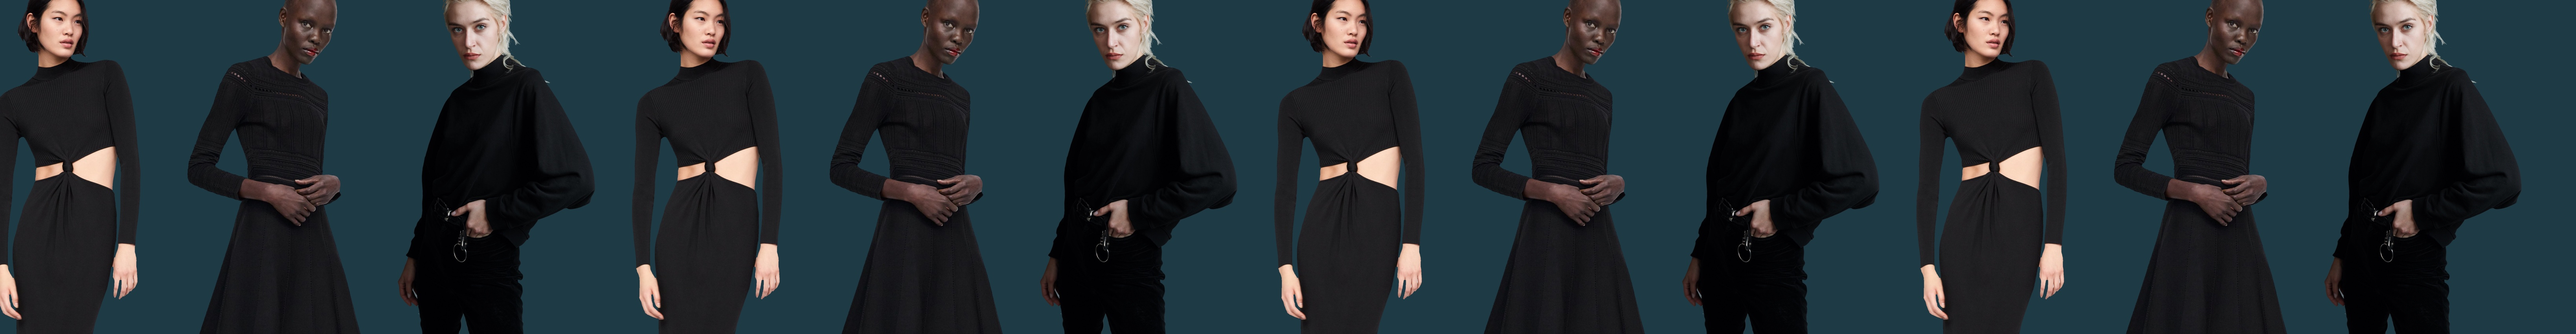
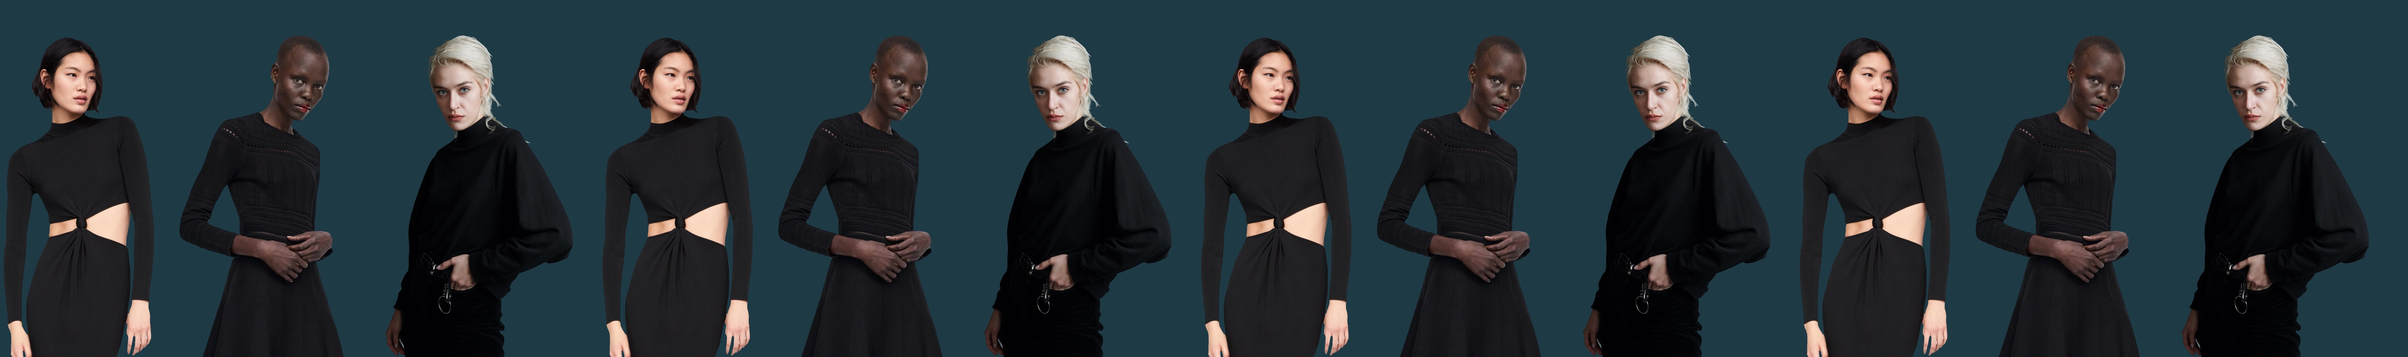
8
8

diff --git a/lawsofmotion/index.hyperesources/index_hype_generated_script.js b/lawsofmotion/index.hyperesources/index_hype_generated_script.js
@@ -3,5 +3,5 @@
 (function(){(function k(){function l(a,b,d){var c=!1;null==window[a]&&(null==window[b]?(window[b]=[],window[b].push(k),a=document.getElementsByTagName("head")[0],b=document.createElement("script"),c=h,false==!0&&(c=""),b.type="text/javascript",b.src=c+"/"+d,a.appendChild(b)):window[b].push(k),c=!0);return c}var h="index.hyperesources",c="index",e="index_hype_container";if(false==!1)try{for(var f=document.getElementsByTagName("script"),
 a=0;a<f.length;a++){var b=f[a].src,d=null!=b?b.indexOf("/index_hype_generated_script.js"):-1;if(-1!=d){h=b.substr(0,d);break}}}catch(n){}if(false==!1&&(a=navigator.userAgent.match(/MSIE (\d+\.\d+)/),a=parseFloat(a&&a[1])||null,a=l("HYPE_596","HYPE_dtl_596",!0==(null!=a&&10>a||false==!0)?"HYPE-596.full.min.js":"HYPE-596.thin.min.js"),false==!0&&(a=a||l("HYPE_w_596","HYPE_wdtl_596","HYPE-596.waypoints.min.js")),a))return;f=window.HYPE.documents;
 if(null!=f[c]){b=1;a=c;do c=""+a+"-"+b++;while(null!=f[c]);d=document.getElementsByTagName("div");b=!1;for(a=0;a<d.length;a++)if(d[a].id==e&&null==d[a].getAttribute("HYP_dn")){var b=1,g=e;do e=""+g+"-"+b++;while(null!=document.getElementById(e));d[a].id=e;b=!0;break}if(!1==b)return}b=[];b=[];d={};g={};for(a=0;a<b.length;a++)try{g[b[a].identifier]=b[a].name,d[b[a].name]=eval("(function(){return "+b[a].source+"})();")}catch(m){window.console&&window.console.log(m),d[b[a].name]=
-function(){}}a=new HYPE_596(c,e,{"7":{p:1,n:"Homepage_Text_2x.png",g:"11",o:true,t:"@2x"},"3":{p:1,n:"Models_2x.jpg",g:"16",o:true,t:"@2x"},"-2":{n:"blank.gif"},"4":{p:1,n:"Models_2.jpg",g:"30",o:true,t:"@1x"},"0":{p:1,n:"LawsOfMotion_FullLogo_2x.png",g:"5",t:"@2x"},"5":{p:1,n:"Models_2_2x.jpg",g:"30",o:true,t:"@2x"},"1":{p:1,n:"LawsOfMotion_Mark_2x.png",g:"8",t:"@2x"},"6":{p:1,n:"Homepage_Text.png",g:"11",o:true,t:"@1x"},"2":{p:1,n:"Models.jpg",g:"16",o:true,t:"@1x"},"-1":{n:"PIE.htc"}},h,[],d,[{n:"Untitled Scene",o:"1",X:[0]}],[{o:"3",p:"600px",cA:false,Y:1440,Z:909,L:[],c:"#FFFFFF",bY:1,d:1440,U:{},T:{"13":{f:30,z:105,i:"13",n:"Untitled Timeline",j:{"0":[[963,56,963,56,300,57,300,57]],"1":[[300,57,300,57,-326,57,-326,57]]},a:[{f:"c",y:0,z:2.03,i:"e",e:1,s:1,o:"40"},{y:0,i:"c",s:1440,z:0,o:"38",f:"c"},{o:"43",y:0,z:2,i:"b",e:2,a:"0",f:"c",s:1},{o:"43",y:0,z:2,i:"a",e:-16,a:"0",f:"c",s:647},{f:"b",y:0,z:105,i:"a",e:-5112,s:0,o:"45"},{o:"43",y:2,z:2,i:"b",e:2,a:"1",f:"c",s:2},{o:"43",y:2,z:2,i:"a",e:-642,a:"1",f:"c",s:-16},{f:"c",y:2.03,z:0.03,i:"e",e:0,s:1,o:"40"},{y:2.03,i:"a",s:0,z:0,o:"38",f:"c"},{y:2.06,i:"e",s:0,z:0,o:"40",f:"c"},{f:"c",y:4,z:1,i:"c",e:0,s:1440,o:"37"},{y:4,i:"b",s:2,z:0,o:"43",f:"c"},{y:4,i:"a",s:-642,z:0,o:"43",f:"c"},{y:5,i:"c",s:0,z:0,o:"37",f:"c"},{y:105,i:"a",s:-5112,z:0,o:"45",f:"c"}],b:[]},kTimelineDefaultIdentifier:{i:"kTimelineDefaultIdentifier",n:"Main Timeline",z:7,b:[],a:[{f:"c",y:0,z:4,i:"c",e:0,s:0,o:"38"},{f:"c",p:2,y:0,z:0,i:"ActionHandler",s:{a:[{b:"13",p:3,z:false,symbolOid:"2"}]},o:"kTimelineDefaultIdentifier"},{f:"c",y:4,z:3,i:"c",e:-1440,s:0,o:"38"},{y:7,i:"c",s:-1440,z:0,o:"38",f:"c"}],f:30}},bZ:180,O:["45","47","38","44","40","39","37","46","42","43","41"],n:"Untitled Layout","_":0,v:{"39":{c:1440,d:909,I:"None",cQ:1,e:1,J:"None",K:"None",cR:1,g:"#EDEADE",L:"None",M:0,N:0,bF:"37",A:"#D8DDE4",x:"visible",j:"absolute",k:"div",O:0,B:"#D8DDE4",C:"#D8DDE4",z:1,P:0,D:"#D8DDE4",a:0,b:0},"47":{h:"30",p:"no-repeat",x:"visible",a:-646,q:"100% 100%",b:0,j:"absolute",dB:"img",z:2,k:"div",c:6624,d:851,r:"none"},"42":{c:665,d:110,I:"None",J:"None",K:"None",L:"None",M:0,N:0,bF:"41",A:"#D8DDE4",x:"visible",j:"absolute",B:"#D8DDE4",k:"div",O:0,C:"#D8DDE4",z:3,P:0,D:"#D8DDE4",a:-37,b:-5},"37":{k:"div",x:"hidden",c:1440,d:919,z:4,a:0,j:"absolute",b:0},"45":{h:"16",p:"no-repeat",x:"visible",a:0,q:"100% 100%",b:0,j:"absolute",dB:"img",z:1,k:"div",c:6554,d:851,r:"inline",e:1},"40":{w:"",h:"5",p:"no-repeat",x:"visible",a:0,q:"100% 100%",b:0,j:"absolute",cY:"0",z:2,dB:"img",k:"div",d:909,bF:"37",c:1440,e:0,r:"inline"},"43":{b:0,bR:0,c:632,bS:1,d:110,I:"None",e:1,cQ:1,J:"None",K:"None",cR:1,g:"#FDFCF6",L:"None",M:0,aY:0,N:0,bF:"41",A:"#D8DDE4",O:0,x:"hidden",j:"absolute",k:"div",B:"#D8DDE4",C:"#D8DDE4",z:2,P:0,D:"#D8DDE4",tX:0.5,a:646.5,tY:0.5},"38":{c:0,d:909,I:"None",cY:"0",cQ:1,e:1,J:"None",K:"None",cR:1,L:"None",M:0,N:0,bF:"37",A:"#D8DDE4",x:"hidden",j:"absolute",O:0,k:"div",B:"#D8DDE4",C:"#D8DDE4",z:7,P:0,D:"#D8DDE4",a:0,b:0},"46":{h:"11",p:"no-repeat",x:"visible",a:0,q:"100% 100%",b:0,j:"absolute",dB:"img",z:3,k:"div",c:1440,d:909,r:"inline",e:1},"41":{x:"hidden",g:"",k:"div",c:635,d:110,z:3,a:399,j:"absolute",bF:"37",b:398},"44":{h:"8",p:"no-repeat",x:"visible",a:0,q:"100% 100%",b:0,j:"absolute",bF:"37",z:6,k:"div",dB:"img",d:909.68399999999997,c:1442,r:"inline"}}}],{},g,{},null,false,true,-1,true,true,false,true);f[c]=a.API;document.getElementById(e).setAttribute("HYP_dn",
+function(){}}a=new HYPE_596(c,e,{"7":{p:1,n:"Homepage_Text_2x.png",g:"11",o:true,t:"@2x"},"3":{p:1,n:"Models_2_2x.jpg",g:"30",o:true,t:"@2x"},"-2":{n:"blank.gif"},"4":{p:1,n:"Models.jpg",g:"16",o:true,t:"@1x"},"0":{p:1,n:"LawsOfMotion_FullLogo_2x.png",g:"5",t:"@2x"},"5":{p:1,n:"Models_2x.jpg",g:"16",o:true,t:"@2x"},"1":{p:1,n:"LawsOfMotion_Mark_2x.png",g:"8",t:"@2x"},"6":{p:1,n:"Homepage_Text.png",g:"11",o:true,t:"@1x"},"2":{p:1,n:"Models_2.jpg",g:"30",o:true,t:"@1x"},"-1":{n:"PIE.htc"}},h,[],d,[{n:"Untitled Scene",o:"1",X:[0]}],[{o:"3",p:"600px",cA:false,Y:1440,Z:909,L:[],c:"#FFFFFF",bY:1,d:1440,U:{},T:{"13":{f:30,z:105,i:"13",n:"Untitled Timeline",j:{"0":[[963,56,963,56,300,57,300,57]],"1":[[300,57,300,57,-326,57,-326,57]]},a:[{f:"c",y:0,z:2.03,i:"e",e:1,s:1,o:"40"},{y:0,i:"c",s:1440,z:0,o:"38",f:"c"},{o:"43",y:0,z:2,i:"b",e:2,a:"0",f:"c",s:1},{o:"43",y:0,z:2,i:"a",e:-16,a:"0",f:"c",s:647},{f:"b",y:0,z:105,i:"a",e:-4682,s:0,o:"45"},{o:"43",y:2,z:2,i:"b",e:2,a:"1",f:"c",s:2},{o:"43",y:2,z:2,i:"a",e:-642,a:"1",f:"c",s:-16},{f:"c",y:2.03,z:0.03,i:"e",e:0,s:1,o:"40"},{y:2.03,i:"a",s:0,z:0,o:"38",f:"c"},{y:2.06,i:"e",s:0,z:0,o:"40",f:"c"},{f:"c",y:4,z:1,i:"c",e:0,s:1440,o:"37"},{y:4,i:"b",s:2,z:0,o:"43",f:"c"},{y:4,i:"a",s:-642,z:0,o:"43",f:"c"},{y:5,i:"c",s:0,z:0,o:"37",f:"c"},{y:105,i:"a",s:-4682,z:0,o:"45",f:"c"}],b:[]},kTimelineDefaultIdentifier:{i:"kTimelineDefaultIdentifier",n:"Main Timeline",z:7,b:[],a:[{f:"c",y:0,z:4,i:"c",e:0,s:0,o:"38"},{f:"c",p:2,y:0,z:0,i:"ActionHandler",s:{a:[{b:"13",p:3,z:false,symbolOid:"2"}]},o:"kTimelineDefaultIdentifier"},{f:"c",y:4,z:3,i:"c",e:-1440,s:0,o:"38"},{y:7,i:"c",s:-1440,z:0,o:"38",f:"c"}],f:30}},bZ:180,O:["45","47","38","44","40","39","37","46","42","43","41"],n:"Untitled Layout","_":0,v:{"39":{c:1440,d:909,I:"None",cQ:1,e:1,J:"None",K:"None",cR:1,g:"#EDEADE",L:"None",M:0,N:0,bF:"37",A:"#D8DDE4",x:"visible",j:"absolute",k:"div",O:0,B:"#D8DDE4",C:"#D8DDE4",z:1,P:0,D:"#D8DDE4",a:0,b:0},"47":{h:"30",p:"no-repeat",x:"visible",a:-646,q:"100% 100%",b:0,j:"absolute",dB:"img",z:2,k:"div",c:6624,d:851,r:"none"},"42":{c:665,d:110,I:"None",J:"None",K:"None",L:"None",M:0,N:0,bF:"41",A:"#D8DDE4",x:"visible",j:"absolute",B:"#D8DDE4",k:"div",O:0,C:"#D8DDE4",z:3,P:0,D:"#D8DDE4",a:-37,b:-5},"37":{k:"div",x:"hidden",c:1440,d:919,z:4,a:0,j:"absolute",b:0},"45":{h:"16",p:"no-repeat",x:"visible",a:0,q:"100% 100%",b:0,j:"absolute",dB:"img",z:1,k:"div",c:6129,d:909,r:"inline",e:1},"40":{w:"",h:"5",p:"no-repeat",x:"visible",a:0,q:"100% 100%",b:0,j:"absolute",cY:"0",z:2,dB:"img",k:"div",d:909,bF:"37",c:1440,e:0,r:"inline"},"43":{b:0,bR:0,c:632,bS:1,d:110,I:"None",e:1,cQ:1,J:"None",K:"None",cR:1,g:"#FDFCF6",L:"None",M:0,aY:0,N:0,bF:"41",A:"#D8DDE4",O:0,x:"hidden",j:"absolute",k:"div",B:"#D8DDE4",C:"#D8DDE4",z:2,P:0,D:"#D8DDE4",tX:0.5,a:646.5,tY:0.5},"38":{c:0,d:909,I:"None",cY:"0",cQ:1,e:1,J:"None",K:"None",cR:1,L:"None",M:0,N:0,bF:"37",A:"#D8DDE4",x:"hidden",j:"absolute",O:0,k:"div",B:"#D8DDE4",C:"#D8DDE4",z:7,P:0,D:"#D8DDE4",a:0,b:0},"46":{h:"11",p:"no-repeat",x:"visible",a:0,q:"100% 100%",b:0,j:"absolute",dB:"img",z:3,k:"div",c:1440,d:909,r:"inline",e:1},"41":{x:"hidden",g:"",k:"div",c:635,d:110,z:3,a:399,j:"absolute",bF:"37",b:398},"44":{h:"8",p:"no-repeat",x:"visible",a:0,q:"100% 100%",b:0,j:"absolute",bF:"37",z:6,k:"div",dB:"img",d:909.68399999999997,c:1442,r:"inline"}}}],{},g,{},null,false,true,-1,true,true,false,true);f[c]=a.API;document.getElementById(e).setAttribute("HYP_dn",
 c);a.z_o(this.body)})();})();

diff --git a/lawsofmotionpdp/index.hyperesources/index_hype_generated_script.js b/lawsofmotionpdp/index.hyperesources/index_hype_generated_script.js
@@ -3,5 +3,5 @@
 (function(){(function k(){function l(a,b,d){var c=!1;null==window[a]&&(null==window[b]?(window[b]=[],window[b].push(k),a=document.getElementsByTagName("head")[0],b=document.createElement("script"),c=h,false==!0&&(c=""),b.type="text/javascript",b.src=c+"/"+d,a.appendChild(b)):window[b].push(k),c=!0);return c}var h="index.hyperesources",c="index",e="index_hype_container";if(false==!1)try{for(var f=document.getElementsByTagName("script"),
 a=0;a<f.length;a++){var b=f[a].src,d=null!=b?b.indexOf("/index_hype_generated_script.js"):-1;if(-1!=d){h=b.substr(0,d);break}}}catch(n){}if(false==!1&&(a=navigator.userAgent.match(/MSIE (\d+\.\d+)/),a=parseFloat(a&&a[1])||null,a=l("HYPE_596","HYPE_dtl_596",!0==(null!=a&&10>a||false==!0)?"HYPE-596.full.min.js":"HYPE-596.thin.min.js"),false==!0&&(a=a||l("HYPE_w_596","HYPE_wdtl_596","HYPE-596.waypoints.min.js")),a))return;f=window.HYPE.documents;
 if(null!=f[c]){b=1;a=c;do c=""+a+"-"+b++;while(null!=f[c]);d=document.getElementsByTagName("div");b=!1;for(a=0;a<d.length;a++)if(d[a].id==e&&null==d[a].getAttribute("HYP_dn")){var b=1,g=e;do e=""+g+"-"+b++;while(null!=document.getElementById(e));d[a].id=e;b=!0;break}if(!1==b)return}b=[];b=[];d={};g={};for(a=0;a<b.length;a++)try{g[b[a].identifier]=b[a].name,d[b[a].name]=eval("(function(){return "+b[a].source+"})();")}catch(m){window.console&&window.console.log(m),d[b[a].name]=
-function(){}}a=new HYPE_596(c,e,{"-2":{n:"blank.gif"},"2":{p:1,n:"model3.png",g:"10",o:true,t:"@1x"},"3":{p:1,n:"model3_2x.png",g:"10",o:true,t:"@2x"},"4":{p:1,n:"model2.png",g:"12",o:true,t:"@1x"},"5":{p:1,n:"model2_2x.png",g:"12",o:true,t:"@2x"},"6":{p:1,n:"model1.png",g:"14",o:true,t:"@1x"},"7":{p:1,n:"model1_2x.png",g:"14",o:true,t:"@2x"},"-1":{n:"PIE.htc"},"0":{p:1,n:"models.png",g:"8",o:true,t:"@1x"},"8":{p:1,n:"text.png",g:"6",o:true,t:"@1x"},"1":{p:1,n:"models_2x.png",g:"8",o:true,t:"@2x"},"9":{p:1,n:"text_2x.png",g:"6",o:true,t:"@2x"}},h,[],d,[{n:"Untitled Scene",o:"1",X:[0]}],[{o:"3",p:"600px",cA:false,Y:1440,Z:1941,L:[],c:"#FFFFFF",bY:1,d:1440,U:{"25":{V:{"Main Timeline":"30"},W:"30",n:"Symbol"}},T:{"16":{i:"16",n:"Untitled Timeline",z:6,b:[{D:6,H:true,E:true,z:false,F:0,G:0,C:0,b:"30"}],a:[{f:"c",y:0,z:2,i:"e",e:0.40000000000000002,s:1,o:"27"},{f:"c",y:0,z:2,i:"e",e:1,s:0.40000000000000002,o:"24"},{y:2,i:"e",s:0.40000000000000002,z:0,o:"27",f:"c"},{f:"c",y:2,z:2,i:"e",e:1,s:1,o:"24"},{f:"c",y:4,z:2,i:"e",e:1,s:0.40000000000000002,o:"29"},{f:"c",y:4,z:2,i:"e",e:0.40000000000000002,s:1,o:"24"},{y:6,i:"e",s:1,z:0,o:"29",f:"c"},{y:6,i:"e",s:0.40000000000000002,z:0,o:"24",f:"c"}],f:30},"30":{c:"25",z:6,i:"30",n:"Main Timeline",a:[{f:"c",y:0,z:2,i:"b",e:-816,s:0,o:"26"},{f:"c",y:2,z:2,i:"b",e:-816,s:-816,o:"26"},{f:"c",y:4,z:2,i:"b",e:-1619,s:-816,o:"26"},{y:6,i:"b",s:-1619,z:0,o:"26",f:"c"}],f:30,b:[]},kTimelineDefaultIdentifier:{i:"kTimelineDefaultIdentifier",n:"Main Timeline",z:0,b:[],a:[],f:30}},bZ:180,O:["28","23","26","25","27","24","29"],n:"Untitled Layout","_":0,v:{"26":{h:"8",p:"no-repeat",x:"visible",tY:0.5,a:0,b:0,q:"100% 100%",dB:"img",z:3,j:"absolute",k:"div",d:2500,bF:"25",c:653,e:1,aP:"auto",r:"inline",tX:0.5},"29":{h:"10",p:"no-repeat",x:"visible",a:1120,q:"100% 100%",b:558,j:"absolute",dB:"img",aA:{a:[{}]},k:"div",z:5,d:114,c:28,r:"inline",e:0.40000000000000002},"24":{h:"12",p:"no-repeat",x:"visible",a:1125,q:"100% 100%",b:387,j:"absolute",dB:"img",aA:{a:[{b:"16",p:3,z:false,symbolOid:"2"}]},k:"div",z:6,d:114,c:17,r:"inline",e:0.40000000000000002},"27":{h:"14",p:"no-repeat",x:"visible",a:1116,q:"100% 100%",b:218,j:"absolute",dB:"img",z:7,k:"div",c:35,d:112,r:"inline",e:1},"25":{x:"visible",a:566,dB:"button",b:67,j:"absolute",aE:{a:[{p:0},{p:0}]},aA:{a:[{b:"30",p:3,z:false,symbolOid:"17"}]},k:"div",z:2,d:2500,c:653,aB:{a:[{p:0}]},e:1,aP:"pointer",bY:1,bZ:180,cA:false,bX:false,cV:[]},"28":{h:"6",p:"no-repeat",x:"visible",a:0,q:"100% 100%",b:0,j:"absolute",dB:"img",z:4,k:"div",c:1440,d:1941,r:"inline"},"23":{c:1440,d:1941,I:"None",e:0.40000000000000002,J:"None",K:"None",g:"#EDEADE",L:"None",M:0,N:0,A:"#EDEADE",x:"visible",j:"absolute",B:"#EDEADE",k:"div",O:0,C:"#EDEADE",z:1,P:0,D:"#EDEADE",a:0,b:0}}}],{},g,{},null,false,true,-1,true,true,false,true);f[c]=a.API;document.getElementById(e).setAttribute("HYP_dn",
+function(){}}a=new HYPE_596(c,e,{"-2":{n:"blank.gif"},"2":{p:1,n:"model3.png",g:"10",o:true,t:"@1x"},"3":{p:1,n:"model3_2x.png",g:"10",o:true,t:"@2x"},"4":{p:1,n:"model2.png",g:"12",o:true,t:"@1x"},"5":{p:1,n:"model2_2x.png",g:"12",o:true,t:"@2x"},"6":{p:1,n:"model1.png",g:"14",o:true,t:"@1x"},"7":{p:1,n:"model1_2x.png",g:"14",o:true,t:"@2x"},"-1":{n:"PIE.htc"},"0":{p:1,n:"models.png",g:"8",o:true,t:"@1x"},"8":{p:1,n:"text.png",g:"23",o:true,t:"@1x"},"1":{p:1,n:"models_2x.png",g:"8",o:true,t:"@2x"},"9":{p:1,n:"text_2x.png",g:"23",o:true,t:"@2x"}},h,[],d,[{n:"Untitled Scene",o:"1",X:[0]}],[{o:"3",p:"600px",cA:false,Y:1440,Z:1941,L:[],c:"#FFFFFF",bY:1,d:1440,U:{"27":{V:{"Main Timeline":"32"},W:"32",n:"Symbol"}},T:{"16":{i:"16",n:"Untitled Timeline",z:6,b:[{D:6,H:true,E:true,z:false,F:0,G:0,C:0,b:"32"}],a:[{f:"c",y:0,z:2,i:"e",e:0.40000000000000002,s:1,o:"29"},{f:"c",y:0,z:2,i:"e",e:1,s:0.40000000000000002,o:"26"},{y:2,i:"e",s:0.40000000000000002,z:0,o:"29",f:"c"},{f:"c",y:2,z:2,i:"e",e:1,s:1,o:"26"},{f:"c",y:4,z:2,i:"e",e:1,s:0.40000000000000002,o:"30"},{f:"c",y:4,z:2,i:"e",e:0.40000000000000002,s:1,o:"26"},{y:6,i:"e",s:1,z:0,o:"30",f:"c"},{y:6,i:"e",s:0.40000000000000002,z:0,o:"26",f:"c"}],f:30},"32":{c:"27",z:6,i:"32",n:"Main Timeline",a:[{f:"c",y:0,z:2,i:"b",e:-816,s:0,o:"28"},{f:"c",y:2,z:2,i:"b",e:-816,s:-816,o:"28"},{f:"c",y:4,z:2,i:"b",e:-1619,s:-816,o:"28"},{y:6,i:"b",s:-1619,z:0,o:"28",f:"c"}],f:30,b:[]},kTimelineDefaultIdentifier:{i:"kTimelineDefaultIdentifier",n:"Main Timeline",z:0,b:[],a:[],f:30}},bZ:180,O:["31","25","28","27","29","26","30"],n:"Untitled Layout","_":0,v:{"26":{h:"12",p:"no-repeat",x:"visible",a:1125,q:"100% 100%",b:387,j:"absolute",dB:"img",aA:{a:[{b:"16",p:3,z:false,symbolOid:"2"}]},k:"div",z:7,d:114,c:17,r:"inline",e:0.40000000000000002},"29":{h:"14",p:"no-repeat",x:"visible",a:1116,q:"100% 100%",b:218,j:"absolute",dB:"img",z:8,k:"div",c:35,d:112,r:"inline",e:1},"27":{x:"visible",a:566,dB:"button",b:67,j:"absolute",aE:{a:[{p:0},{p:0}]},aA:{a:[{b:"32",p:3,z:false,symbolOid:"17"}]},k:"div",z:2,d:2500,c:653,aB:{a:[{p:0}]},e:1,aP:"pointer",bY:1,bZ:180,cA:false,bX:false,cV:[]},"30":{h:"10",p:"no-repeat",x:"visible",a:1120,q:"100% 100%",b:558,j:"absolute",dB:"img",aA:{a:[{}]},k:"div",z:6,d:114,c:28,r:"inline",e:0.40000000000000002},"25":{c:1440,d:1941,I:"None",e:0.40000000000000002,J:"None",K:"None",g:"#EDEADE",L:"None",M:0,N:0,A:"#EDEADE",x:"visible",j:"absolute",B:"#EDEADE",k:"div",O:0,C:"#EDEADE",z:1,P:0,D:"#EDEADE",a:0,b:0},"28":{h:"8",p:"no-repeat",x:"visible",tY:0.5,a:0,b:0,q:"100% 100%",dB:"img",z:3,j:"absolute",k:"div",d:2500,bF:"27",c:653,e:1,aP:"auto",r:"inline",tX:0.5},"31":{h:"23",p:"no-repeat",x:"visible",a:0,q:"100% 100%",b:0,j:"absolute",dB:"img",z:5,k:"div",c:1440,d:1941,r:"inline"}}}],{},g,{},null,false,true,-1,true,true,false,true);f[c]=a.API;document.getElementById(e).setAttribute("HYP_dn",
 c);a.z_o(this.body)})();})();

diff --git a/lawsofmotionpdp/index.html b/lawsofmotionpdp/index.html
@@ -24,7 +24,7 @@
 	<!-- copy these lines to your document: -->
 
 	<div id="index_hype_container" style="margin:auto;position:relative;width:1440px;height:1941px;overflow:hidden;">
-		<script type="text/javascript" charset="utf-8" src="index.hyperesources/index_hype_generated_script.js?28672"></script>
+		<script type="text/javascript" charset="utf-8" src="index.hyperesources/index_hype_generated_script.js?65982"></script>
 	</div>
 
 	<!-- end copy -->

diff --git a/lawsofmotion/index.html b/lawsofmotion/index.html
@@ -24,7 +24,7 @@
 	<!-- copy these lines to your document: -->
 
 	<div id="index_hype_container" style="margin:auto;position:relative;width:1440px;height:909px;overflow:hidden;">
-		<script type="text/javascript" charset="utf-8" src="index.hyperesources/index_hype_generated_script.js?54850"></script>
+		<script type="text/javascript" charset="utf-8" src="index.hyperesources/index_hype_generated_script.js?65571"></script>
 	</div>
 
 	<!-- end copy -->
